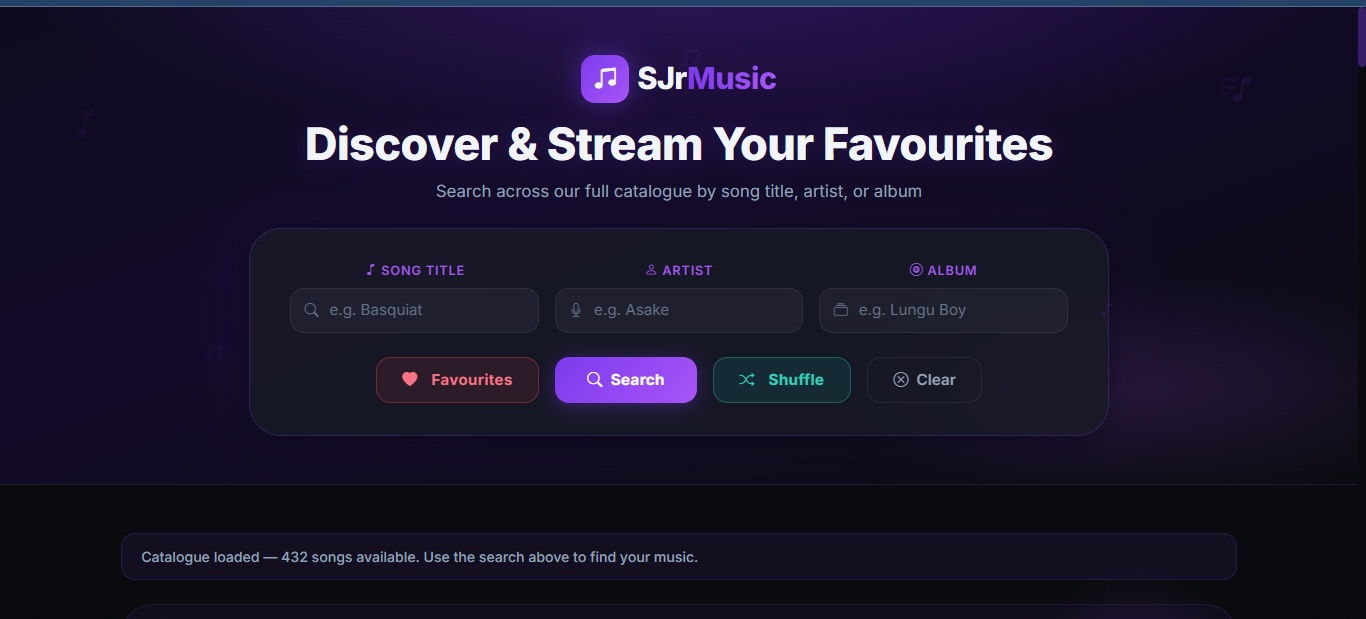
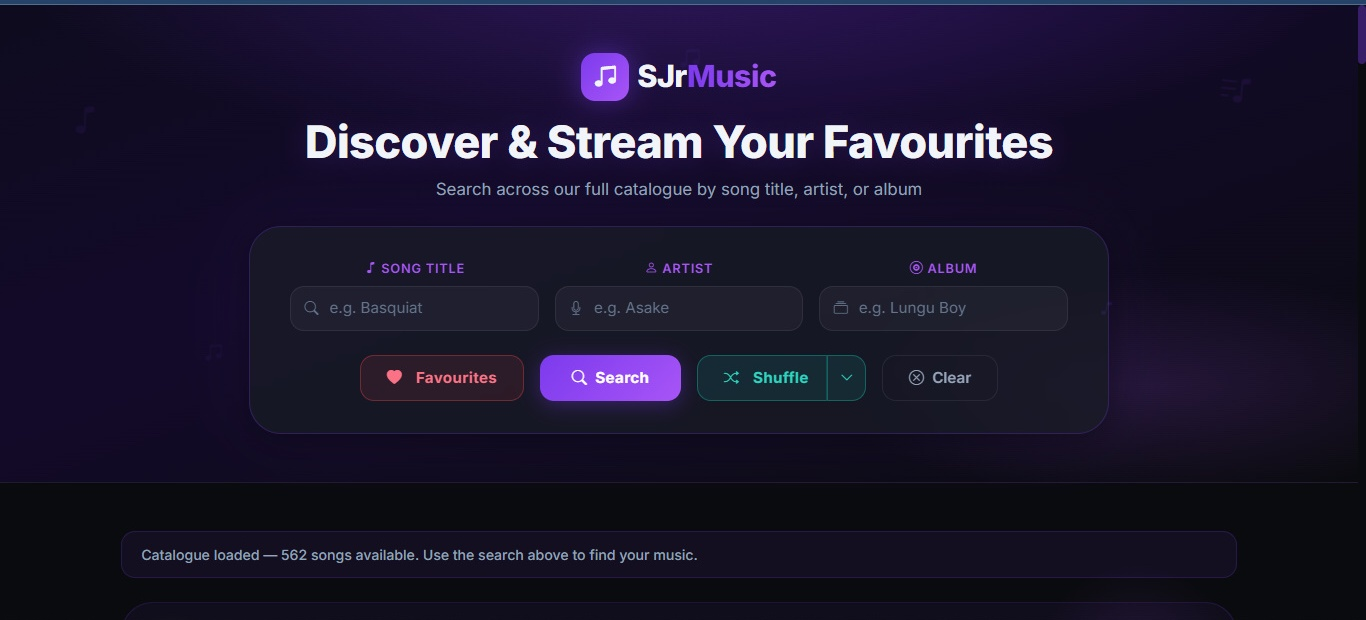
updates

diff --git a/terminal.js b/terminal.js
@@ -69,7 +69,17 @@
      ══════════════════════════════════════════════════════════ */
 
   const STUB_PROJECTS = [
-    {
+      {
+          id: 'stub-civicfix',
+          title: 'CivicFix',
+          description: 'CivicFix is a web-based platform that enables residents to report community problems and monitor their progress toward resolution.',
+          tech: ['CSS3', 'HTML5', 'BootStrap', 'React', 'Vite', 'REST API', 'JWT Authentication'],
+          github: 'https://github.com/ShimboJr/CivicFix-Frontend',
+          live: 'https://sjr-civicfix.vercel.app/',
+          image: './images/civicfix.jpg',
+          dateAdded: '2026-09-01T10:06:00Z',
+      },
+      {
       id: 'stub-sjrmusic',
       title: 'SJr Music',
       description: 'This is a Music Search & Streaming Web Application built arounD a custom music API.',
